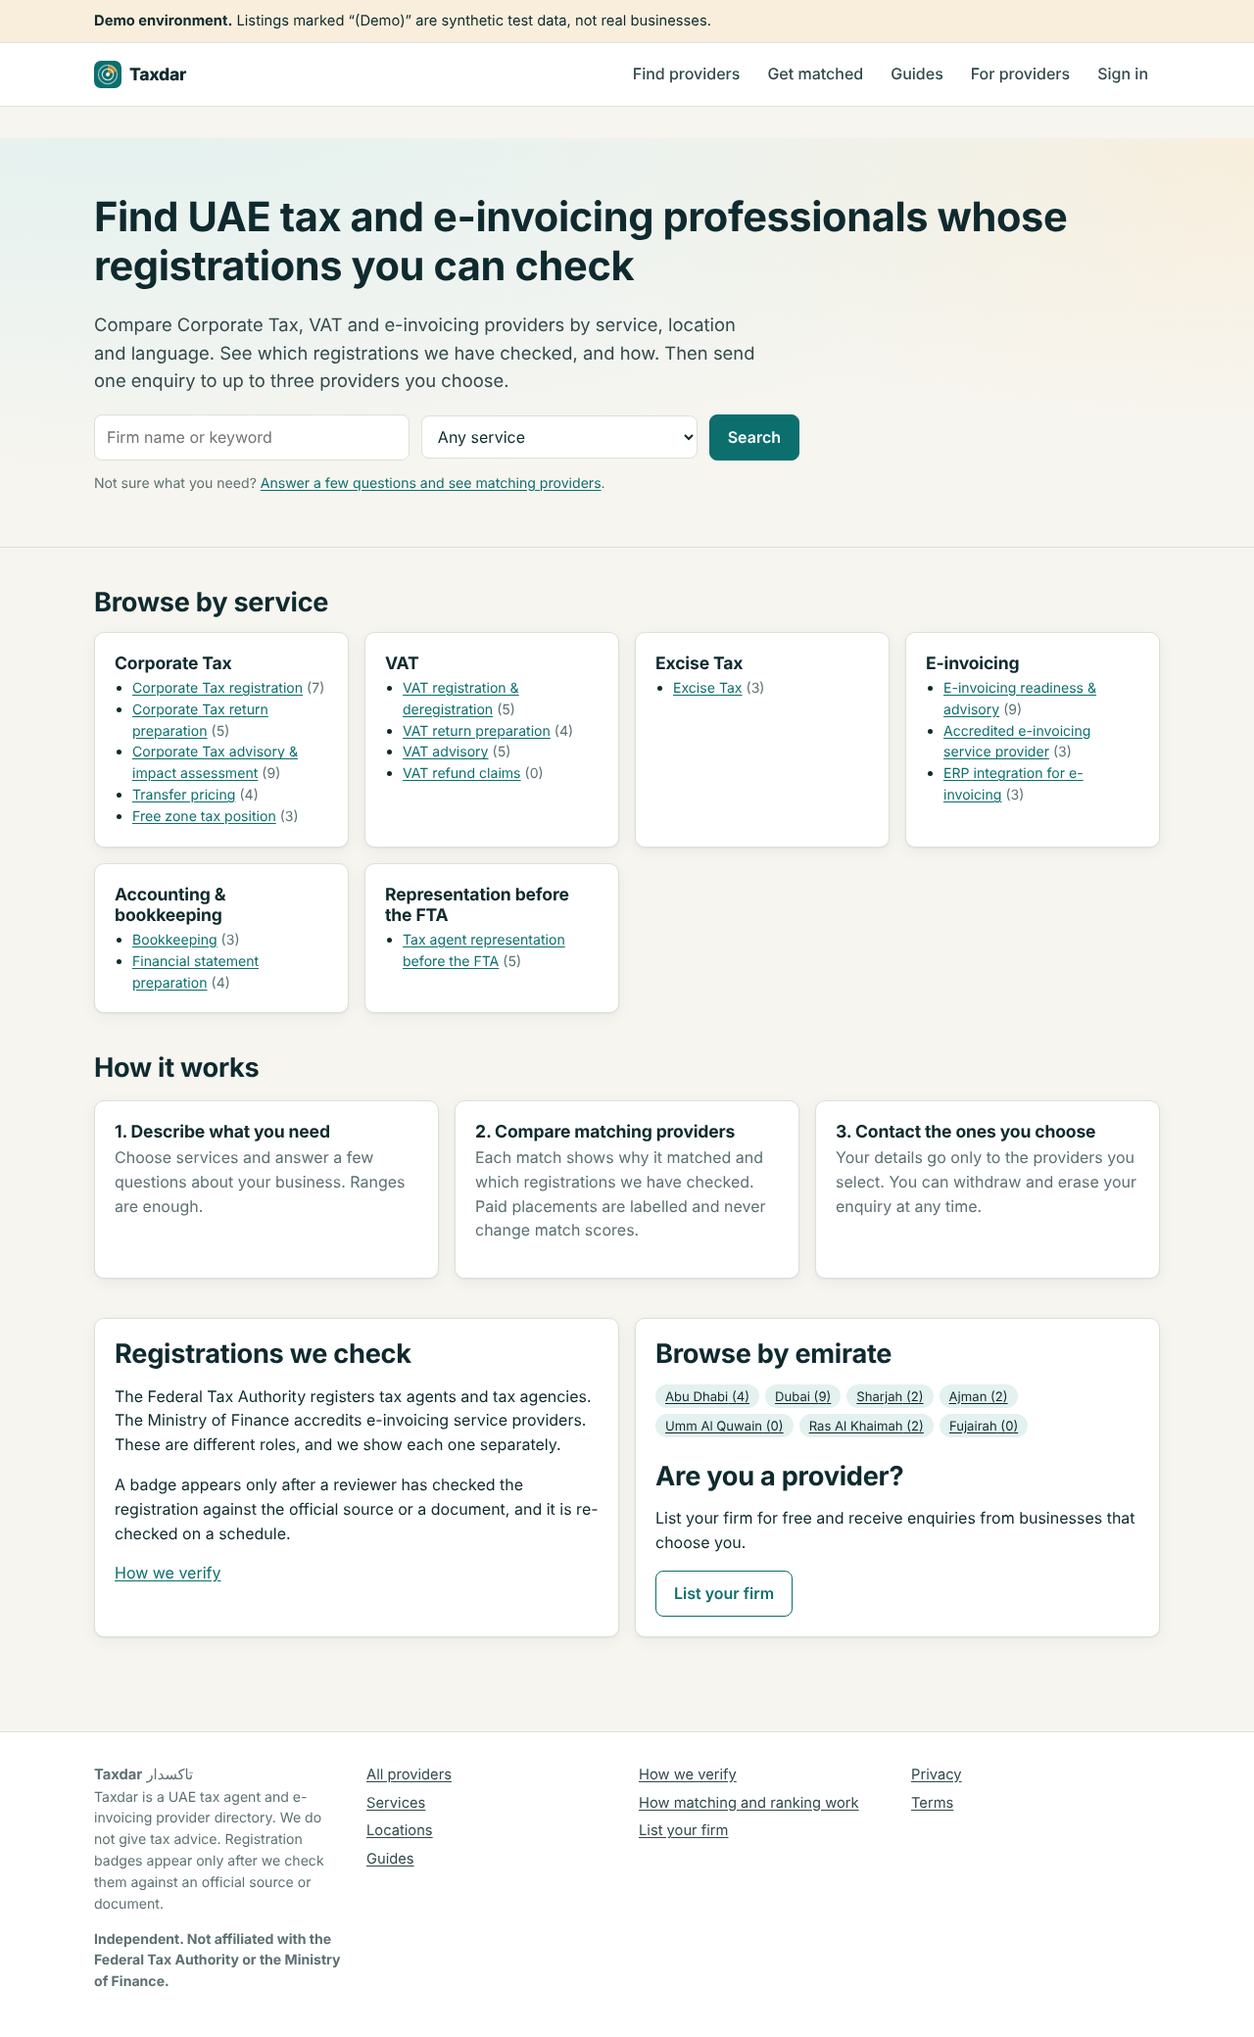
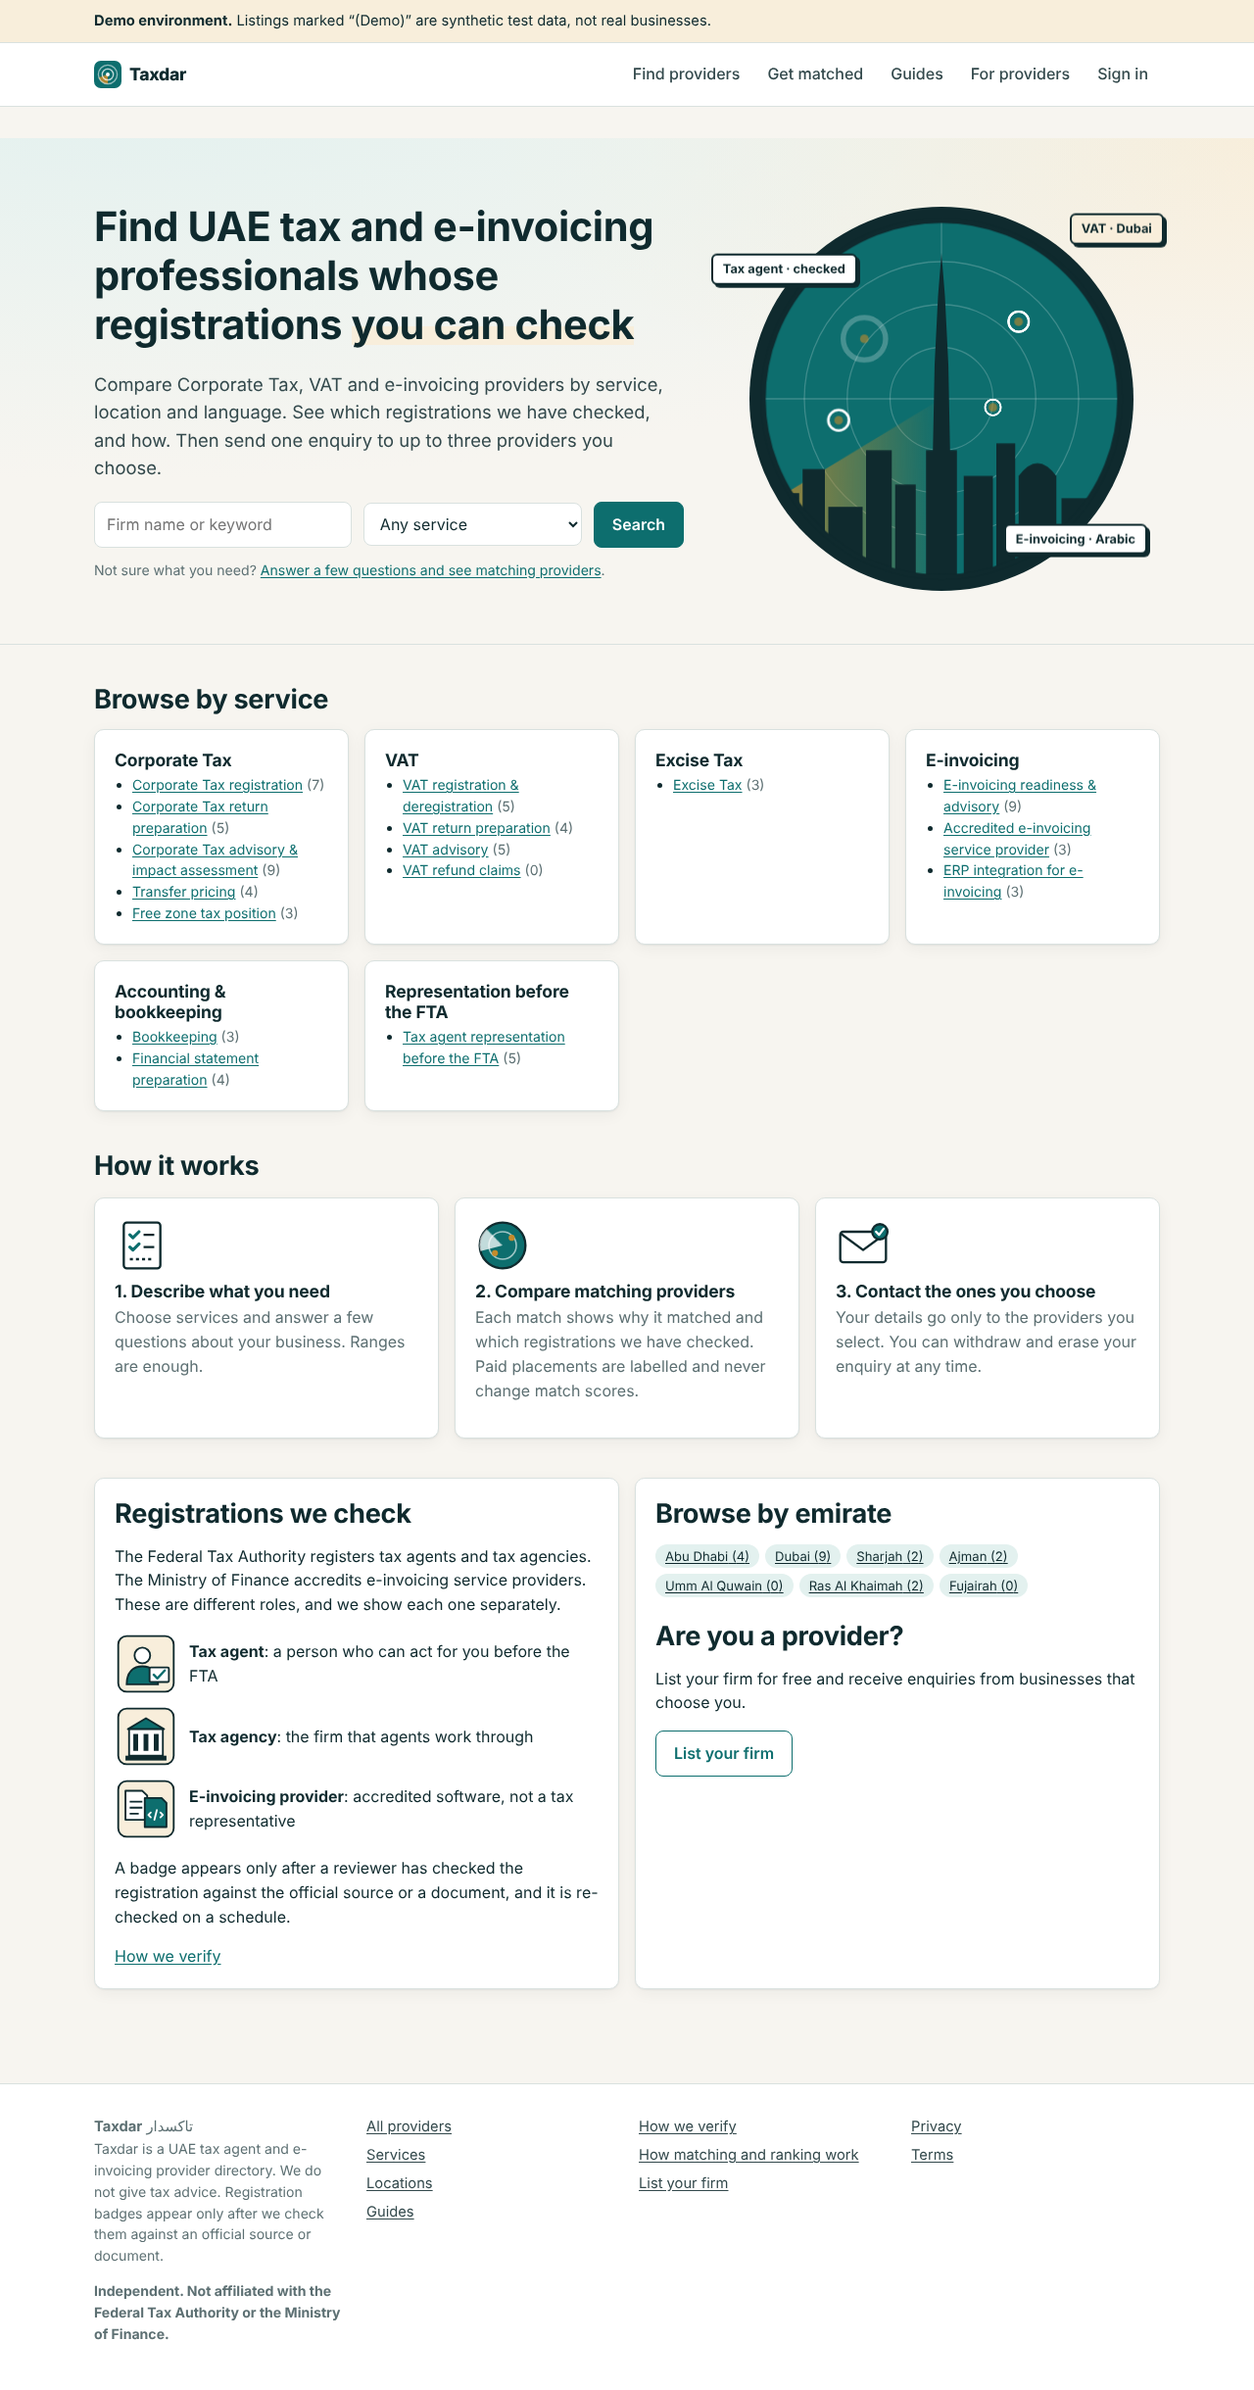
Illustrations and micro-animations
- Original inline-SVG art (no image requests): a radar scope sweeping a
  skyline in the home hero, one icon per registration type (agent, agency,
  e-invoicing provider) and icons for the three "how it works" steps.
  Colours come from theme variables, so they follow dark mode.
- Motion: the logo and hero radar sweep, matched-provider blips pulse,
  floating tags, a highlighter wipe on the headline, card lift on hover
  and a press effect on buttons. Transform and opacity only; all of it is
  off for prefers-reduced-motion.
- Performance budget re-run: all 5 pages pass (scores 0.98-0.99, CLS 0,
  home LCP 2.16 s).

Claude-Session: https://claude.ai/code/session_01CjftCtjsy6YL3QLnJSHWGL

diff --git a/src/components/illustrations.tsx b/src/components/illustrations.tsx
@@ -1,0 +1,118 @@
+/**
+ * Original, decorative illustrations (inline SVG: no image requests, no third-party art).
+ * Colours come from the theme variables, so they follow light and dark mode.
+ * Motion lives in globals.css and is switched off for prefers-reduced-motion.
+ */
+const brand = { fill: "var(--brand)" };
+const accent = { fill: "var(--accent)" };
+const ink = { fill: "var(--ink)" };
+const paper = { fill: "var(--surface)" };
+
+/** Hero art: a radar scope sweeping a skyline, with blips for matched providers. */
+export function RadarScene() {
+  return (
+    <svg className="radar-scene" viewBox="0 0 480 480" aria-hidden="true" focusable="false">
+      <defs>
+        <clipPath id="radar-clip"><circle cx="240" cy="240" r="208" /></clipPath>
+        <linearGradient id="radar-beam" x1="0" y1="0" x2="1" y2="0">
+          <stop offset="0" stopColor="var(--accent)" stopOpacity="0" />
+          <stop offset="1" stopColor="var(--accent)" stopOpacity="0.7" />
+        </linearGradient>
+      </defs>
+      <circle cx="240" cy="240" r="224" style={ink} />
+      <circle cx="240" cy="240" r="208" style={brand} />
+      <g clipPath="url(#radar-clip)">
+        <g fill="none" stroke="#fff" strokeOpacity="0.2" strokeWidth="1.5">
+          <circle cx="240" cy="240" r="160" /><circle cx="240" cy="240" r="110" /><circle cx="240" cy="240" r="60" />
+          <line x1="30" y1="240" x2="450" y2="240" /><line x1="240" y1="30" x2="240" y2="450" />
+        </g>
+        <g className="radar-sweep"><path d="M240 240 L240 30 A210 210 0 0 1 421.9 135 Z" fill="url(#radar-beam)" /></g>
+        <g style={ink}>
+          <rect x="40" y="350" width="34" height="110" /><rect x="78" y="322" width="26" height="140" /><rect x="108" y="366" width="40" height="100" />
+          <rect x="152" y="300" width="30" height="170" /><rect x="186" y="340" width="24" height="130" />
+          <path d="M222 470 L222 300 L230 300 L232 200 L236 120 L240 70 L244 120 L248 200 L250 300 L258 300 L258 470 Z" />
+          <rect x="266" y="330" width="34" height="140" /><rect x="304" y="292" width="22" height="180" />
+          <path d="M330 470 L330 330 Q352 300 374 330 L374 470 Z" />
+          <rect x="380" y="356" width="30" height="110" /><rect x="414" y="380" width="40" height="90" />
+        </g>
+        {[
+          [150, 170, "a"],
+          [330, 150, "b"],
+          [300, 250, "c"],
+          [120, 265, "d"],
+        ].map(([x, y, k]) => (
+          <g key={k as string}>
+            <circle className={`radar-ping radar-ping-${k}`} cx={x} cy={y} r="12" fill="none" stroke="#fff" strokeWidth="3" />
+            <circle className="radar-dot" cx={x} cy={y} r="5" style={accent} />
+          </g>
+        ))}
+      </g>
+      <circle cx="240" cy="240" r="208" fill="none" stroke="var(--ink)" strokeWidth="6" />
+    </svg>
+  );
+}
+
+/** One icon per registration type, so the three roles are told apart at a glance. */
+export function RoleIcon({ kind }: { kind: "agent" | "agency" | "einvoicing" }) {
+  return (
+    <svg className="role-icon" width="64" height="64" viewBox="0 0 104 104" aria-hidden="true" focusable="false">
+      <rect x="6" y="6" width="92" height="92" rx="14" style={{ fill: "var(--accent-soft)" }} stroke="var(--ink)" strokeWidth="3" />
+      {kind === "agent" && (
+        <>
+          <circle cx="46" cy="38" r="13" style={paper} stroke="var(--ink)" strokeWidth="3" />
+          <path d="M20 86 C20 64 32 56 46 56 C60 56 72 64 72 86 Z" style={brand} stroke="var(--ink)" strokeWidth="3" />
+          <rect x="58" y="58" width="32" height="24" rx="2" style={paper} stroke="var(--ink)" strokeWidth="3" />
+          <path d="M65 70 L71 76 L83 63" fill="none" stroke="var(--brand)" strokeWidth="4" strokeLinecap="round" strokeLinejoin="round" />
+        </>
+      )}
+      {kind === "agency" && (
+        <>
+          <path d="M22 40 L52 22 L82 40 Z" style={brand} stroke="var(--ink)" strokeWidth="3" strokeLinejoin="round" />
+          <rect x="24" y="40" width="56" height="44" style={paper} stroke="var(--ink)" strokeWidth="3" />
+          <rect x="31" y="48" width="8" height="28" style={ink} /><rect x="48" y="48" width="8" height="28" style={ink} /><rect x="65" y="48" width="8" height="28" style={ink} />
+          <rect x="18" y="84" width="68" height="8" style={ink} />
+        </>
+      )}
+      {kind === "einvoicing" && (
+        <>
+          <path d="M18 22 H46 L54 30 V70 H18 Z" style={paper} stroke="var(--ink)" strokeWidth="3" strokeLinejoin="round" />
+          <path d="M25 40 H46 M25 50 H46 M25 60 H40" stroke="var(--ink)" strokeWidth="3" />
+          <path d="M50 34 H78 L86 42 V82 H50 Z" style={brand} stroke="var(--ink)" strokeWidth="3" strokeLinejoin="round" />
+          <path d="M60 58 L56 62 L60 66 M76 58 L80 62 L76 66 M70 54 L66 70" fill="none" stroke="#fff" strokeWidth="3" strokeLinecap="round" strokeLinejoin="round" />
+        </>
+      )}
+    </svg>
+  );
+}
+
+/** Icons for the three "how it works" steps. */
+export function StepIcon({ step }: { step: 1 | 2 | 3 }) {
+  return (
+    <svg className="step-icon" width="56" height="56" viewBox="0 0 72 72" aria-hidden="true" focusable="false">
+      {step === 1 && (
+        <>
+          <rect x="12" y="6" width="48" height="60" rx="4" style={paper} stroke="var(--ink)" strokeWidth="3" />
+          <path d="M20 22 L24 26 L32 18 M20 38 L24 42 L32 34" fill="none" stroke="var(--brand)" strokeWidth="4" strokeLinecap="round" strokeLinejoin="round" />
+          <path d="M38 22 H52 M38 38 H52" stroke="var(--ink)" strokeWidth="3" />
+          <path d="M20 54 H52" stroke="var(--ink)" strokeWidth="3" strokeDasharray="4 4" />
+        </>
+      )}
+      {step === 2 && (
+        <>
+          <circle cx="36" cy="36" r="30" style={brand} stroke="var(--ink)" strokeWidth="3" />
+          <circle cx="36" cy="36" r="18" fill="none" stroke="#fff" strokeOpacity="0.6" strokeWidth="2" />
+          <g className="radar-sweep radar-sweep-small"><path d="M36 36 L36 6 A30 30 0 0 1 62 21 Z" fill="#fff" opacity="0.75" /></g>
+          <circle cx="48" cy="26" r="4" style={accent} /><circle cx="26" cy="46" r="4" style={accent} />
+        </>
+      )}
+      {step === 3 && (
+        <>
+          <rect x="6" y="18" width="60" height="40" rx="4" style={paper} stroke="var(--ink)" strokeWidth="3" />
+          <path d="M6 20 L36 42 L66 20" fill="none" stroke="var(--ink)" strokeWidth="3" strokeLinejoin="round" />
+          <circle cx="58" cy="18" r="10" style={brand} stroke="var(--ink)" strokeWidth="3" />
+          <path d="M53 18 L57 22 L63 14" fill="none" stroke="#fff" strokeWidth="3" strokeLinecap="round" strokeLinejoin="round" />
+        </>
+      )}
+    </svg>
+  );
+}

diff --git a/src/app/page.tsx b/src/app/page.tsx
@@ -5,6 +5,7 @@ import { SERVICES, SERVICE_CATEGORIES, EMIRATES } from "@/lib/taxonomy";
 import { BRAND } from "@/lib/brand";
 import { JsonLd } from "@/components/ui";
 import { config } from "@/lib/config";
+import { RadarScene, RoleIcon, StepIcon } from "@/components/illustrations";
 
 export const dynamic = "force-dynamic";
 
@@ -16,8 +17,9 @@ export default async function Home() {
       <JsonLd data={{ "@context": "https://schema.org", "@type": "Organization", name: BRAND.name, alternateName: BRAND.nameAr, description: BRAND.description, url: config.siteUrl, logo: `${config.siteUrl}/icon.svg` }} />
       <JsonLd data={{ "@context": "https://schema.org", "@type": "WebSite", name: BRAND.name, alternateName: BRAND.nameAr, url: config.siteUrl, potentialAction: { "@type": "SearchAction", target: `${config.siteUrl}/providers?q={query}`, "query-input": "required name=query" } }} />
       <section className="hero">
-        <div className="container">
-          <h1>Find UAE tax and e-invoicing professionals whose registrations you can check</h1>
+        <div className="container hero-grid">
+          <div className="hero-copy">
+          <h1>Find UAE tax and e-invoicing professionals whose registrations <span className="hl-mark">you can check</span></h1>
           <p className="lead">Compare Corporate Tax, VAT and e-invoicing providers by service, location and language. See which registrations we have checked, and how. Then send one enquiry to up to three providers you choose.</p>
           <form action="/providers" method="get" className="row" role="search" style={{ marginTop: 20, maxWidth: 720 }}>
             <label htmlFor="q" className="skip">Search providers</label>
@@ -29,6 +31,13 @@ export default async function Home() {
             <button className="btn" type="submit">Search</button>
           </form>
           <p className="small muted" style={{ marginTop: 12 }}>Not sure what you need? <Link href="/match">Answer a few questions and see matching providers</Link>.</p>
+          </div>
+          <div className="hero-art">
+            <RadarScene />
+            <span className="hero-tag hero-tag-1">Tax agent · checked</span>
+            <span className="hero-tag hero-tag-2">VAT · Dubai</span>
+            <span className="hero-tag hero-tag-3">E-invoicing · Arabic</span>
+          </div>
         </div>
       </section>
 
@@ -36,7 +45,7 @@ export default async function Home() {
         <h2>Browse by service</h2>
         <div className="grid grid-3">
           {categories.map(([cat, label]) => (
-            <div className="card" key={cat}>
+            <div className="card lift" key={cat}>
               <h3>{label}</h3>
               <ul className="small" style={{ paddingLeft: 18, margin: 0 }}>
                 {SERVICES.filter((s) => s.category === cat).map((s) => (
@@ -53,9 +62,9 @@ export default async function Home() {
       <section className="container" style={{ marginTop: 40 }}>
         <h2>How it works</h2>
         <ol className="grid grid-3" style={{ listStyle: "none", padding: 0 }}>
-          <li className="card"><h3>1. Describe what you need</h3><p className="muted">Choose services and answer a few questions about your business. Ranges are enough.</p></li>
-          <li className="card"><h3>2. Compare matching providers</h3><p className="muted">Each match shows why it matched and which registrations we have checked. Paid placements are labelled and never change match scores.</p></li>
-          <li className="card"><h3>3. Contact the ones you choose</h3><p className="muted">Your details go only to the providers you select. You can withdraw and erase your enquiry at any time.</p></li>
+          <li className="card lift"><StepIcon step={1} /><h3>1. Describe what you need</h3><p className="muted">Choose services and answer a few questions about your business. Ranges are enough.</p></li>
+          <li className="card lift"><StepIcon step={2} /><h3>2. Compare matching providers</h3><p className="muted">Each match shows why it matched and which registrations we have checked. Paid placements are labelled and never change match scores.</p></li>
+          <li className="card lift"><StepIcon step={3} /><h3>3. Contact the ones you choose</h3><p className="muted">Your details go only to the providers you select. You can withdraw and erase your enquiry at any time.</p></li>
         </ol>
       </section>
 
@@ -64,6 +73,11 @@ export default async function Home() {
           <div className="card">
             <h2>Registrations we check</h2>
             <p>The Federal Tax Authority registers tax agents and tax agencies. The Ministry of Finance accredits e-invoicing service providers. These are different roles, and we show each one separately.</p>
+            <ul className="roles">
+              <li><RoleIcon kind="agent" /><span><strong>Tax agent</strong>: a person who can act for you before the FTA</span></li>
+              <li><RoleIcon kind="agency" /><span><strong>Tax agency</strong>: the firm that agents work through</span></li>
+              <li><RoleIcon kind="einvoicing" /><span><strong>E-invoicing provider</strong>: accredited software, not a tax representative</span></li>
+            </ul>
             <p>A badge appears only after a reviewer has checked the registration against the official source or a document, and it is re-checked on a schedule.</p>
             <Link href="/how-we-verify">How we verify</Link>
           </div>

diff --git a/src/app/globals.css b/src/app/globals.css
@@ -158,3 +158,41 @@ tr:last-child td { border-bottom: none; }
 .admin-nav { display: flex; gap: 4px; flex-wrap: wrap; margin-bottom: 24px; border-bottom: 1px solid var(--line); padding-bottom: 8px; }
 .admin-nav a { padding: 6px 10px; border-radius: 6px; text-decoration: none; color: var(--ink-2); font-weight: 500; }
 .admin-nav a:hover { background: var(--brand-soft); }
+
+
+/* ---------- Illustrations and micro-animations (transform/opacity only; off for reduced motion) ---------- */
+.hero-grid { display: grid; grid-template-columns: minmax(0, 1.35fr) minmax(0, 1fr); gap: 40px; align-items: center; }
+.hero-art { position: relative; max-width: 420px; justify-self: center; width: 100%; }
+.radar-scene { display: block; width: 100%; height: auto; }
+.hero-tag { position: absolute; background: var(--surface); border: 2px solid var(--ink); border-radius: 6px; padding: 4px 10px; font-size: 0.8rem; font-weight: 700; box-shadow: 3px 3px 0 var(--ink); animation: float 4s ease-in-out infinite; }
+.hero-tag-1 { left: -6%; top: 16%; }
+.hero-tag-2 { right: -4%; top: 6%; background: var(--accent-soft); animation-delay: 1.2s; }
+.hero-tag-3 { right: 0; bottom: 12%; animation-delay: 2.1s; }
+@media (max-width: 860px) { .hero-grid { grid-template-columns: minmax(0, 1fr); } .hero-art { max-width: 300px; } }
+.hl-mark { background-image: linear-gradient(color-mix(in srgb, var(--accent) 42%, transparent), color-mix(in srgb, var(--accent) 42%, transparent)); background-repeat: no-repeat; background-position: 0 88%; background-size: 0% 38%; animation: hl-wipe .9s cubic-bezier(.2,.8,.2,1) .3s forwards; }
+.roles { list-style: none; padding: 0; margin: 0 0 16px; display: grid; gap: 10px; }
+.roles li { display: flex; align-items: center; gap: 12px; }
+.role-icon, .step-icon { flex: none; }
+.step-icon { display: block; margin-bottom: 8px; }
+.logo-sweep, .radar-sweep { transform-box: view-box; transform-origin: center; animation: spin 5s linear infinite; }
+.radar-sweep-small { animation-duration: 3.5s; }
+.radar-ping { transform-box: fill-box; transform-origin: center; animation: ping 3s ease-out infinite; }
+.radar-ping-b { animation-delay: 1s; } .radar-ping-c { animation-delay: 2s; } .radar-ping-d { animation-delay: 2.6s; }
+.radar-dot { animation: pulse 3s ease-in-out infinite; }
+.lift { transition: transform .18s ease, box-shadow .18s ease, border-color .18s ease; }
+.lift:hover { transform: translateY(-3px); box-shadow: 0 10px 24px rgba(15, 42, 46, 0.12); border-color: var(--brand); }
+.btn { transition: transform .12s ease, filter .12s ease; }
+.btn:active:not(:disabled) { transform: translateY(1px) scale(0.98); }
+.card-link { transition: border-color .15s, transform .18s ease, box-shadow .18s ease; }
+.card-link:hover { transform: translateY(-2px); box-shadow: 0 8px 20px rgba(15, 42, 46, 0.1); }
+.steps li { transition: border-color .3s ease, color .3s ease; }
+@keyframes spin { to { transform: rotate(360deg); } }
+@keyframes ping { 0% { transform: scale(0.6); opacity: 0; } 15% { opacity: 1; } 60% { transform: scale(1); opacity: 1; } 100% { transform: scale(2.4); opacity: 0; } }
+@keyframes pulse { 0%, 100% { opacity: 0.45; } 50% { opacity: 1; } }
+@keyframes float { 0%, 100% { transform: translateY(0); } 50% { transform: translateY(-6px); } }
+@keyframes hl-wipe { to { background-size: 100% 38%; } }
+@keyframes rise { from { opacity: 0; transform: translateY(10px); } to { opacity: 1; transform: none; } }
+@media (prefers-reduced-motion: reduce) {
+  *, *::before, *::after { animation: none !important; transition: none !important; }
+  .hl-mark { background-size: 100% 38%; }
+}

diff --git a/src/components/logo.tsx b/src/components/logo.tsx
@@ -3,7 +3,7 @@ export function LogoMark({ size = 28 }: { size?: number }) {
   return (
     <svg width={size} height={size} viewBox="0 0 32 32" aria-hidden="true" focusable="false" className="logo-mark">
       <rect width="32" height="32" rx="8" fill="var(--brand)" />
-      <path d="M16 16 L16 5 A11 11 0 0 1 26.4 12.6 Z" fill="var(--accent)" opacity="0.9" />
+      <g className="logo-sweep"><path d="M16 16 L16 5 A11 11 0 0 1 26.4 12.6 Z" fill="var(--accent)" opacity="0.9" /></g>
       <circle cx="16" cy="16" r="11" fill="none" stroke="#fff" strokeOpacity="0.55" strokeWidth="1.5" />
       <circle cx="16" cy="16" r="6.5" fill="none" stroke="#fff" strokeOpacity="0.75" strokeWidth="1.5" />
       <circle cx="16" cy="16" r="2.2" fill="#fff" />
